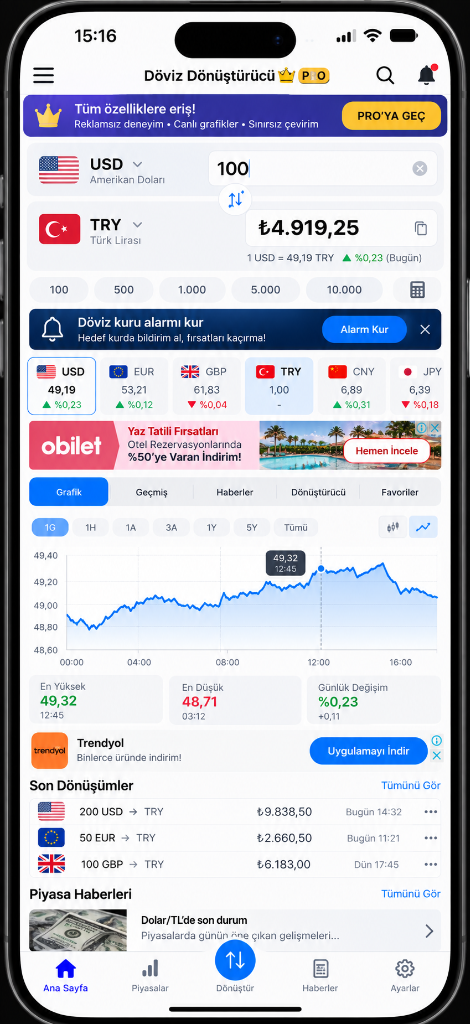
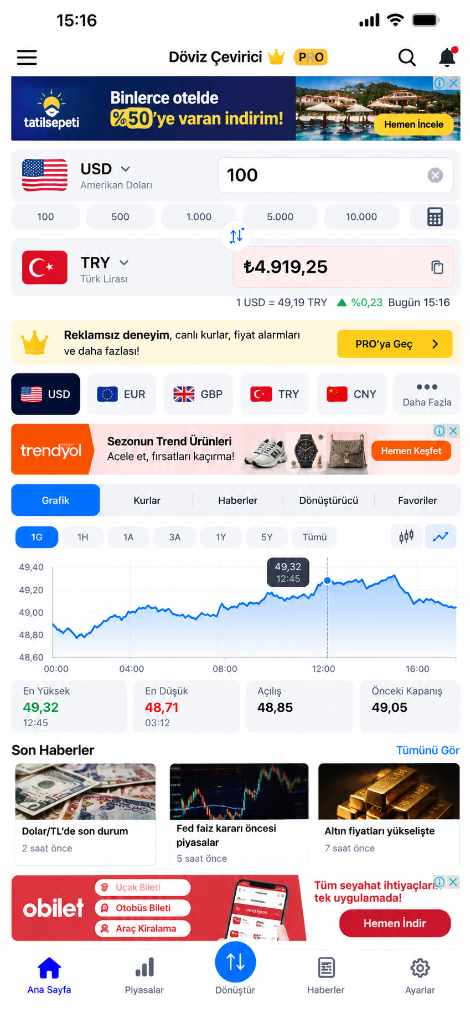
Update screenshot, center hero, change reklam to takip, add modern App Store badge

diff --git a/converter/index.html b/converter/index.html
@@ -23,21 +23,24 @@
   .lang button:first-child { border-radius:10px 0 0 10px; }
   .lang button:last-child { border-radius:0 10px 10px 0; }
   .lang button.on { background:var(--acc); color:#fff; border-color:var(--acc); }
-  .hero { display:flex; gap:32px; align-items:center; padding:40px 0; flex-wrap:wrap; }
-  .hero .txt { flex:1 1 300px; }
-  .hero .shots-compare { flex:1 1 540px; display:flex; gap:18px; justify-content:center; align-items:flex-end; }
-  .hero .shot-col { display:flex; flex-direction:column; align-items:center; flex:1 1 240px; max-width:260px; }
-  .hero .shot-label { font-size:13px; font-weight:700; margin-bottom:10px; text-align:center; padding:4px 10px; border-radius:8px; line-height:1.3; }
-  .hero .shot-label.bad { color:#d32f2f; background:rgba(211,47,47,.08); }
-  .hero .shot-label.good { color:#1b5e20; background:rgba(46,125,50,.1); }
-  .hero .shot-col img { width:100%; border-radius:26px; box-shadow:0 10px 32px rgba(0,0,0,.15); display:block; }
-  .hero .shot-col.bad img { opacity:.85; filter:grayscale(15%); }
-  .hero img.icon { width:88px; height:88px; border-radius:22%; margin-bottom:12px; }
-  .hero h1 { font-size:32px; line-height:1.2; margin-bottom:8px; }
-  .hero p.tag { color:var(--sub); font-size:17px; margin-bottom:20px; }
-  .store { display:inline-block; background:#000; color:#fff; border-radius:12px; padding:10px 20px; font-size:16px; font-weight:600; }
-  .store small { display:block; font-size:11px; font-weight:400; opacity:.7; }
-  .store:link, .store:visited { color:#fff; text-decoration:none; }
+  .hero { display:flex; flex-direction:column; align-items:center; text-align:center; padding:36px 0 44px; }
+  .hero .txt { max-width:620px; margin:0 auto 36px; display:flex; flex-direction:column; align-items:center; }
+  .hero .shots-compare { width:100%; display:flex; gap:24px; justify-content:center; align-items:flex-end; flex-wrap:wrap; }
+  .hero .shot-col { display:flex; flex-direction:column; align-items:center; flex:1 1 280px; max-width:300px; }
+  .hero .shot-label { font-size:13.5px; font-weight:700; margin-bottom:12px; text-align:center; padding:6px 14px; border-radius:20px; line-height:1.3; }
+  .hero .shot-label.bad { color:#c62828; background:rgba(211,47,47,.08); border:1px solid rgba(211,47,47,.15); }
+  .hero .shot-label.good { color:#1b5e20; background:rgba(46,125,50,.1); border:1px solid rgba(46,125,50,.18); }
+  .hero .shot-col img { width:100%; border-radius:28px; box-shadow:0 14px 44px rgba(0,0,0,.14); display:block; }
+  .hero .shot-col.bad img { opacity:.88; }
+  .hero img.icon { width:88px; height:88px; border-radius:22%; margin-bottom:14px; box-shadow:0 8px 24px rgba(0,0,0,.12); }
+  .hero h1 { font-size:36px; line-height:1.2; margin-bottom:10px; font-weight:700; letter-spacing:-0.5px; }
+  .hero p.tag { color:var(--sub); font-size:18px; margin-bottom:24px; max-width:520px; }
+  .badge-appstore { display:inline-flex; align-items:center; gap:12px; background:#000; color:#fff; border-radius:14px; padding:10px 22px; text-decoration:none; transition:transform .2s ease, opacity .2s ease; box-shadow:0 4px 14px rgba(0,0,0,.15); cursor:default; }
+  .badge-appstore svg { width:24px; height:24px; fill:#fff; flex-shrink:0; }
+  .badge-appstore .badge-txt { text-align:left; line-height:1.2; }
+  .badge-appstore .badge-top { font-size:10px; text-transform:uppercase; letter-spacing:.5px; opacity:.75; font-weight:500; display:block; }
+  .badge-appstore .badge-main { font-size:15px; font-weight:600; display:block; }
+  .badge-tag { display:inline-block; font-size:11px; font-weight:600; background:#34c759; color:#fff; padding:2px 8px; border-radius:10px; margin-left:6px; vertical-align:middle; text-transform:uppercase; }
   .feat { background:var(--card); border-radius:16px; padding:24px; margin-bottom:14px; }
   .feat h2 { font-size:19px; margin-bottom:6px; }
   .feat p { color:var(--sub); font-size:15px; }
@@ -68,9 +71,17 @@
       <img class="icon" src="icon-1024.png" alt="App icon">
       <h1 data-tr>Basit Döviz Çevirici</h1>
       <h1 data-en>Simple Currency Converter</h1>
-      <p class="tag" data-tr>166 para birimi. İnternetsiz çalışır. Reklam yok, hesap yok, takip yok.</p>
-      <p class="tag" data-en>166 currencies. Works offline. No ads, no accounts, no tracking.</p>
-      <a class="store" href="#"><small data-tr>Yakında</small><small data-en>Coming soon</small><span data-tr>App Store'dan İndir</span><span data-en>Download on the App Store</span></a>
+      <p class="tag" data-tr>166 para birimi. İnternetsiz çalışır. Takip yok, hesap yok, karmaşa yok.</p>
+      <p class="tag" data-en>166 currencies. Works offline. No tracking, no accounts, no clutter.</p>
+      <div class="badge-appstore">
+        <svg viewBox="0 0 170 170">
+          <path d="M150.37 130.25c-2.45 5.66-5.35 10.87-8.71 15.66-4.58 6.53-8.33 11.05-11.22 13.56-4.48 4.12-9.28 6.23-14.42 6.35-3.69 0-8.14-1.05-13.32-3.18-5.19-2.12-9.97-3.17-14.34-3.17-4.58 0-9.49 1.05-14.75 3.17-5.26 2.13-9.5 3.24-12.74 3.35-4.35.13-9.16-1.9-14.42-6.08-3.69-3.04-7.67-7.81-11.96-14.34-5.74-8.71-10.27-18.73-13.58-30.05-3.32-11.32-4.98-22.15-4.98-32.49 0-14.92 3.69-26.88 11.08-35.88 7.39-9 16.59-13.62 27.6-13.85 4.8 0 10.1 1.25 15.9 3.76 5.8 2.5 9.73 3.82 11.8 3.94 1.84 0 5.8-1.34 11.87-4.01 6.07-2.67 11.36-3.88 15.86-3.63 12.03.62 21.6 4.95 28.71 12.98-10.45 6.32-15.55 14.99-15.3 26.01.25 8.7 3.51 16.14 9.78 22.31 6.27 6.17 13.9 9.87 22.89 11.11-2.43 7.54-5.49 15.11-9.18 22.71zM119.22 33.15c0-7.22 2.61-13.93 7.83-20.14 5.22-6.21 11.53-10.18 18.93-11.91.73 2.53 1.1 4.97 1.1 7.32 0 7.24-2.73 14.13-8.2 20.67-5.47 6.54-11.94 10.4-19.41 11.58-.16-2.52-.25-5.02-.25-7.52z"/>
+        </svg>
+        <div class="badge-txt">
+          <span class="badge-top"><span data-tr>Çok Yakında</span><span data-en>Coming Soon</span><span class="badge-tag">iOS</span></span>
+          <span class="badge-main">App Store</span>
+        </div>
+      </div>
     </div>
     <div class="shots-compare">
       <div class="shot-col bad">
@@ -113,8 +124,8 @@
     </div>
     <div class="feat">
       <h2 data-tr>Gizlilik öncelikli</h2><h2 data-en>Privacy-first</h2>
-      <p class="tag" data-tr>Hesap yok, reklam yok, analiz yok. Verileriniz cihazınızdan çıkmaz.</p>
-      <p class="tag" data-en>No accounts, no ads, no analytics. Your data never leaves your device.</p>
+      <p class="tag" data-tr>Hesap yok, takip yok, analiz yok. Verileriniz cihazınızdan çıkmaz.</p>
+      <p class="tag" data-en>No accounts, no tracking, no analytics. Your data never leaves your device.</p>
     </div>
     <div class="feat">
       <h2 data-tr>iPhone ve iPad</h2><h2 data-en>iPhone and iPad</h2>

diff --git a/simpleconverter/index.html b/simpleconverter/index.html
@@ -23,21 +23,24 @@
   .lang button:first-child { border-radius:10px 0 0 10px; }
   .lang button:last-child { border-radius:0 10px 10px 0; }
   .lang button.on { background:var(--acc); color:#fff; border-color:var(--acc); }
-  .hero { display:flex; gap:32px; align-items:center; padding:40px 0; flex-wrap:wrap; }
-  .hero .txt { flex:1 1 300px; }
-  .hero .shots-compare { flex:1 1 540px; display:flex; gap:18px; justify-content:center; align-items:flex-end; }
-  .hero .shot-col { display:flex; flex-direction:column; align-items:center; flex:1 1 240px; max-width:260px; }
-  .hero .shot-label { font-size:13px; font-weight:700; margin-bottom:10px; text-align:center; padding:4px 10px; border-radius:8px; line-height:1.3; }
-  .hero .shot-label.bad { color:#d32f2f; background:rgba(211,47,47,.08); }
-  .hero .shot-label.good { color:#1b5e20; background:rgba(46,125,50,.1); }
-  .hero .shot-col img { width:100%; border-radius:26px; box-shadow:0 10px 32px rgba(0,0,0,.15); display:block; }
-  .hero .shot-col.bad img { opacity:.85; filter:grayscale(15%); }
-  .hero img.icon { width:88px; height:88px; border-radius:22%; margin-bottom:12px; }
-  .hero h1 { font-size:32px; line-height:1.2; margin-bottom:8px; }
-  .hero p.tag { color:var(--sub); font-size:17px; margin-bottom:20px; }
-  .store { display:inline-block; background:#000; color:#fff; border-radius:12px; padding:10px 20px; font-size:16px; font-weight:600; }
-  .store small { display:block; font-size:11px; font-weight:400; opacity:.7; }
-  .store:link, .store:visited { color:#fff; text-decoration:none; }
+  .hero { display:flex; flex-direction:column; align-items:center; text-align:center; padding:36px 0 44px; }
+  .hero .txt { max-width:620px; margin:0 auto 36px; display:flex; flex-direction:column; align-items:center; }
+  .hero .shots-compare { width:100%; display:flex; gap:24px; justify-content:center; align-items:flex-end; flex-wrap:wrap; }
+  .hero .shot-col { display:flex; flex-direction:column; align-items:center; flex:1 1 280px; max-width:300px; }
+  .hero .shot-label { font-size:13.5px; font-weight:700; margin-bottom:12px; text-align:center; padding:6px 14px; border-radius:20px; line-height:1.3; }
+  .hero .shot-label.bad { color:#c62828; background:rgba(211,47,47,.08); border:1px solid rgba(211,47,47,.15); }
+  .hero .shot-label.good { color:#1b5e20; background:rgba(46,125,50,.1); border:1px solid rgba(46,125,50,.18); }
+  .hero .shot-col img { width:100%; border-radius:28px; box-shadow:0 14px 44px rgba(0,0,0,.14); display:block; }
+  .hero .shot-col.bad img { opacity:.88; }
+  .hero img.icon { width:88px; height:88px; border-radius:22%; margin-bottom:14px; box-shadow:0 8px 24px rgba(0,0,0,.12); }
+  .hero h1 { font-size:36px; line-height:1.2; margin-bottom:10px; font-weight:700; letter-spacing:-0.5px; }
+  .hero p.tag { color:var(--sub); font-size:18px; margin-bottom:24px; max-width:520px; }
+  .badge-appstore { display:inline-flex; align-items:center; gap:12px; background:#000; color:#fff; border-radius:14px; padding:10px 22px; text-decoration:none; transition:transform .2s ease, opacity .2s ease; box-shadow:0 4px 14px rgba(0,0,0,.15); cursor:default; }
+  .badge-appstore svg { width:24px; height:24px; fill:#fff; flex-shrink:0; }
+  .badge-appstore .badge-txt { text-align:left; line-height:1.2; }
+  .badge-appstore .badge-top { font-size:10px; text-transform:uppercase; letter-spacing:.5px; opacity:.75; font-weight:500; display:block; }
+  .badge-appstore .badge-main { font-size:15px; font-weight:600; display:block; }
+  .badge-tag { display:inline-block; font-size:11px; font-weight:600; background:#34c759; color:#fff; padding:2px 8px; border-radius:10px; margin-left:6px; vertical-align:middle; text-transform:uppercase; }
   .feat { background:var(--card); border-radius:16px; padding:24px; margin-bottom:14px; }
   .feat h2 { font-size:19px; margin-bottom:6px; }
   .feat p { color:var(--sub); font-size:15px; }
@@ -68,9 +71,17 @@
       <img class="icon" src="icon-1024.png" alt="App icon">
       <h1 data-tr>Basit Döviz Çevirici</h1>
       <h1 data-en>Simple Currency Converter</h1>
-      <p class="tag" data-tr>166 para birimi. İnternetsiz çalışır. Reklam yok, hesap yok, takip yok.</p>
-      <p class="tag" data-en>166 currencies. Works offline. No ads, no accounts, no tracking.</p>
-      <a class="store" href="#"><small data-tr>Yakında</small><small data-en>Coming soon</small><span data-tr>App Store'dan İndir</span><span data-en>Download on the App Store</span></a>
+      <p class="tag" data-tr>166 para birimi. İnternetsiz çalışır. Takip yok, hesap yok, karmaşa yok.</p>
+      <p class="tag" data-en>166 currencies. Works offline. No tracking, no accounts, no clutter.</p>
+      <div class="badge-appstore">
+        <svg viewBox="0 0 170 170">
+          <path d="M150.37 130.25c-2.45 5.66-5.35 10.87-8.71 15.66-4.58 6.53-8.33 11.05-11.22 13.56-4.48 4.12-9.28 6.23-14.42 6.35-3.69 0-8.14-1.05-13.32-3.18-5.19-2.12-9.97-3.17-14.34-3.17-4.58 0-9.49 1.05-14.75 3.17-5.26 2.13-9.5 3.24-12.74 3.35-4.35.13-9.16-1.9-14.42-6.08-3.69-3.04-7.67-7.81-11.96-14.34-5.74-8.71-10.27-18.73-13.58-30.05-3.32-11.32-4.98-22.15-4.98-32.49 0-14.92 3.69-26.88 11.08-35.88 7.39-9 16.59-13.62 27.6-13.85 4.8 0 10.1 1.25 15.9 3.76 5.8 2.5 9.73 3.82 11.8 3.94 1.84 0 5.8-1.34 11.87-4.01 6.07-2.67 11.36-3.88 15.86-3.63 12.03.62 21.6 4.95 28.71 12.98-10.45 6.32-15.55 14.99-15.3 26.01.25 8.7 3.51 16.14 9.78 22.31 6.27 6.17 13.9 9.87 22.89 11.11-2.43 7.54-5.49 15.11-9.18 22.71zM119.22 33.15c0-7.22 2.61-13.93 7.83-20.14 5.22-6.21 11.53-10.18 18.93-11.91.73 2.53 1.1 4.97 1.1 7.32 0 7.24-2.73 14.13-8.2 20.67-5.47 6.54-11.94 10.4-19.41 11.58-.16-2.52-.25-5.02-.25-7.52z"/>
+        </svg>
+        <div class="badge-txt">
+          <span class="badge-top"><span data-tr>Çok Yakında</span><span data-en>Coming Soon</span><span class="badge-tag">iOS</span></span>
+          <span class="badge-main">App Store</span>
+        </div>
+      </div>
     </div>
     <div class="shots-compare">
       <div class="shot-col bad">
@@ -113,8 +124,8 @@
     </div>
     <div class="feat">
       <h2 data-tr>Gizlilik öncelikli</h2><h2 data-en>Privacy-first</h2>
-      <p class="tag" data-tr>Hesap yok, reklam yok, analiz yok. Verileriniz cihazınızdan çıkmaz.</p>
-      <p class="tag" data-en>No accounts, no ads, no analytics. Your data never leaves your device.</p>
+      <p class="tag" data-tr>Hesap yok, takip yok, analiz yok. Verileriniz cihazınızdan çıkmaz.</p>
+      <p class="tag" data-en>No accounts, no tracking, no analytics. Your data never leaves your device.</p>
     </div>
     <div class="feat">
       <h2 data-tr>iPhone ve iPad</h2><h2 data-en>iPhone and iPad</h2>
